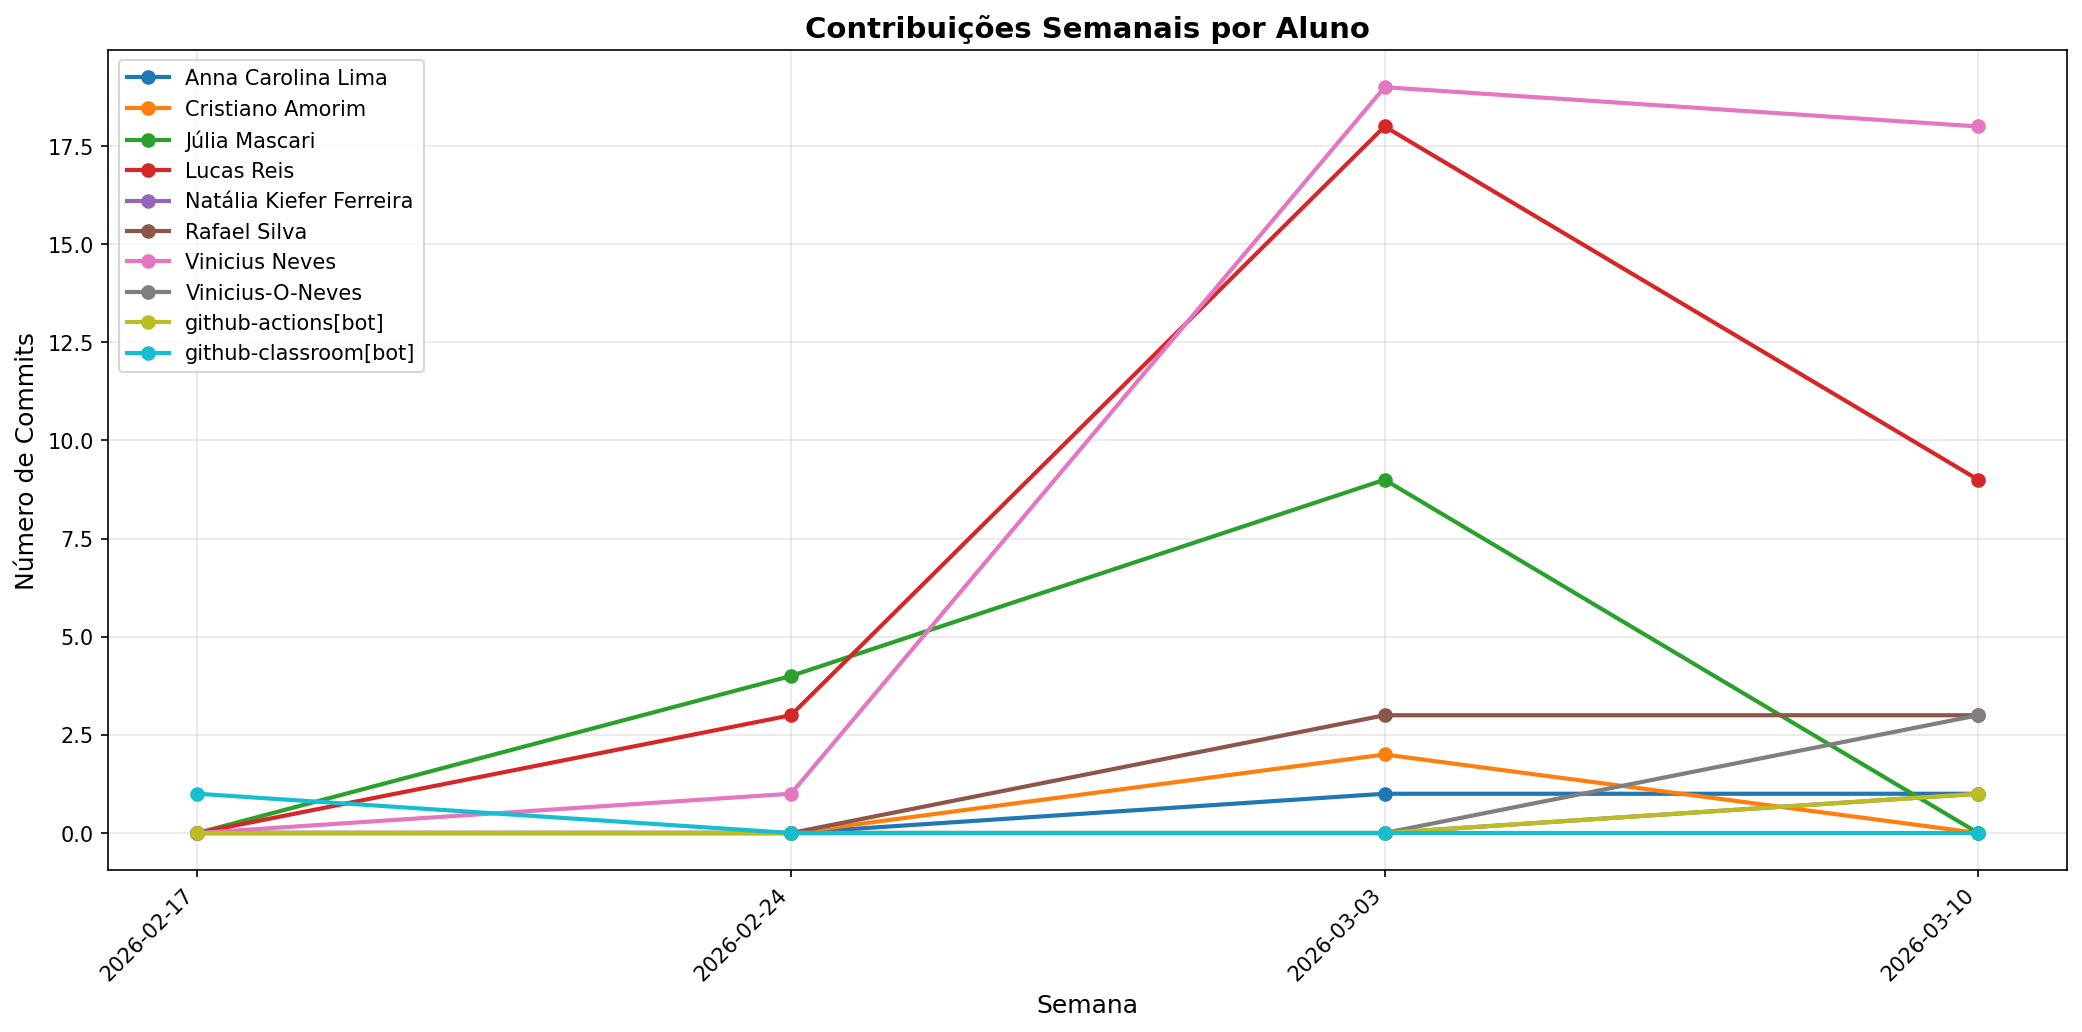
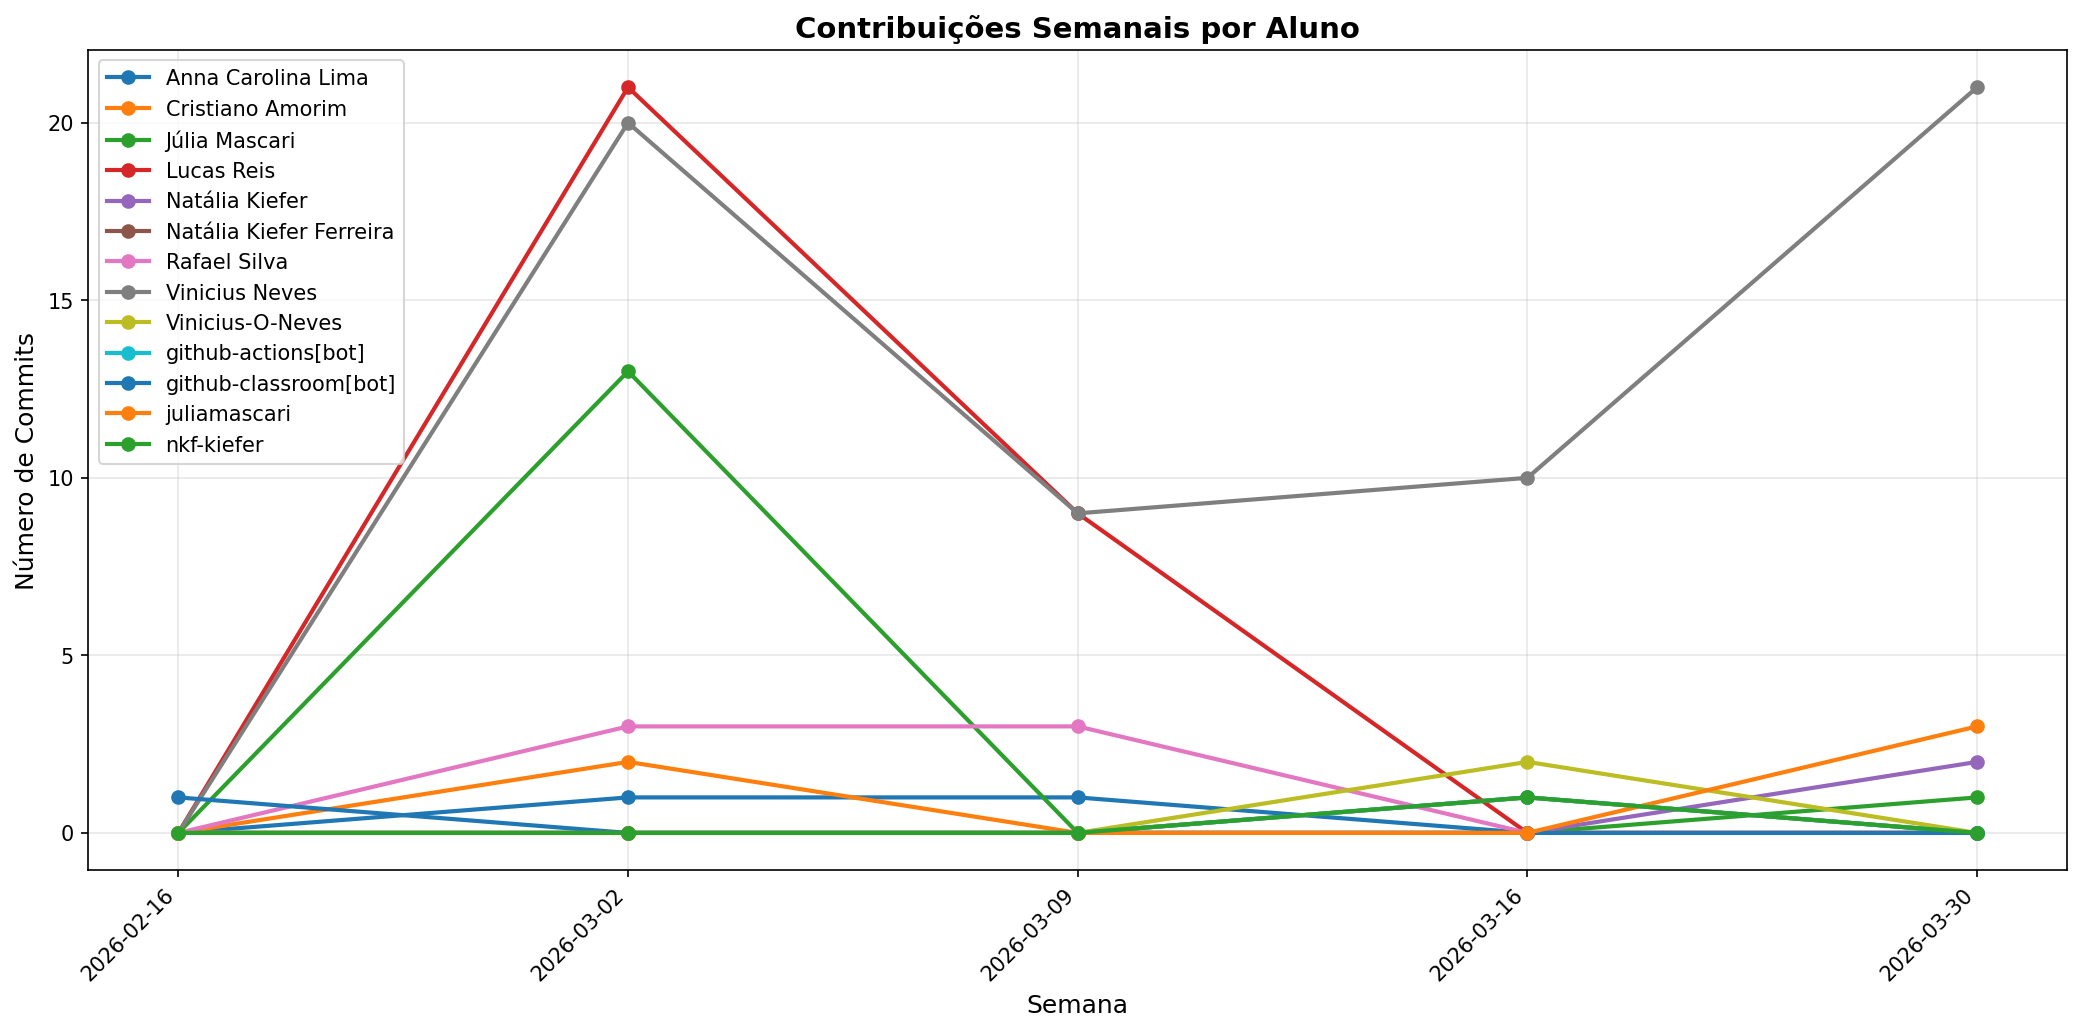
📊 docs: atualizar relatório de contribuições

diff --git a/docs/CONTRIBUTION_REPORT.md b/docs/CONTRIBUTION_REPORT.md
@@ -1,6 +1,6 @@
 # 📊 Relatório de Contribuições do Projeto
 
-**Última atualização:** 17/03/2026 20:04
+**Última atualização:** 06/04/2026 00:15
 
 ---
 
@@ -10,25 +10,30 @@
 |-------------------------|-----------|-----------|-----------|------------|----------------|-----------------|
 | Anna Carolina Lima      |         2 |        13 |        10 |          2 |              2 |               2 |
 | Cristiano Amorim        |         2 |        17 |         9 |          2 |              1 |               2 |
-| Júlia Mascari           |        13 |       116 |        31 |          3 |             11 |               3 |
+| Júlia Mascari           |        14 |       116 |        31 |          3 |             11 |               3 |
 | Lucas Reis              |        30 |        48 |        48 |          4 |             23 |               3 |
+| Natália Kiefer          |         2 |       720 |       248 |         15 |              0 |               0 |
 | Natália Kiefer Ferreira |         1 |        19 |        19 |          1 |              1 |               1 |
 | Rafael Silva            |         6 |        24 |        36 |          3 |              6 |               3 |
-| Vinicius Neves          |        38 |   1290971 |   1284698 |       5660 |             19 |               5 |
-| Vinicius-O-Neves        |         3 |        15 |         8 |          4 |              2 |               1 |
+| Vinicius Neves          |        60 |   1294742 |   1287110 |       5668 |             26 |               6 |
+| Vinicius-O-Neves        |         2 |        11 |         4 |          4 |              1 |               1 |
 | github-actions[bot]     |         1 |        28 |        31 |          3 |              1 |               1 |
 | github-classroom[bot]   |         1 |      2152 |         0 |         45 |              1 |              13 |
+| juliamascari            |         3 |       284 |        85 |         14 |              1 |               1 |
+| nkf-kiefer              |         1 |        16 |        15 |          3 |              1 |               1 |
 
 
 ## 📅 Contribuições Semanais (Todo o Semestre)
 
-**2026-03-10**: Anna Carolina Lima: 1, Lucas Reis: 9, Natália Kiefer Ferreira: 1, Rafael Silva: 3, Vinicius Neves: 18, Vinicius-O-Neves: 3, github-actions[bot]: 1
+**2026-03-30**: Júlia Mascari: 1, Natália Kiefer: 2, Vinicius Neves: 21, juliamascari: 3
 
-**2026-03-03**: Anna Carolina Lima: 1, Cristiano Amorim: 2, Júlia Mascari: 9, Lucas Reis: 18, Rafael Silva: 3, Vinicius Neves: 19
+**2026-03-16**: Natália Kiefer Ferreira: 1, Vinicius Neves: 10, Vinicius-O-Neves: 2, github-actions[bot]: 1, nkf-kiefer: 1
 
-**2026-02-24**: Júlia Mascari: 4, Lucas Reis: 3, Vinicius Neves: 1
+**2026-03-09**: Anna Carolina Lima: 1, Lucas Reis: 9, Rafael Silva: 3, Vinicius Neves: 9
 
-**2026-02-17**: github-classroom[bot]: 1
+**2026-03-02**: Anna Carolina Lima: 1, Cristiano Amorim: 2, Júlia Mascari: 13, Lucas Reis: 21, Rafael Silva: 3, Vinicius Neves: 20
+
+**2026-02-16**: github-classroom[bot]: 1
 
 
 
